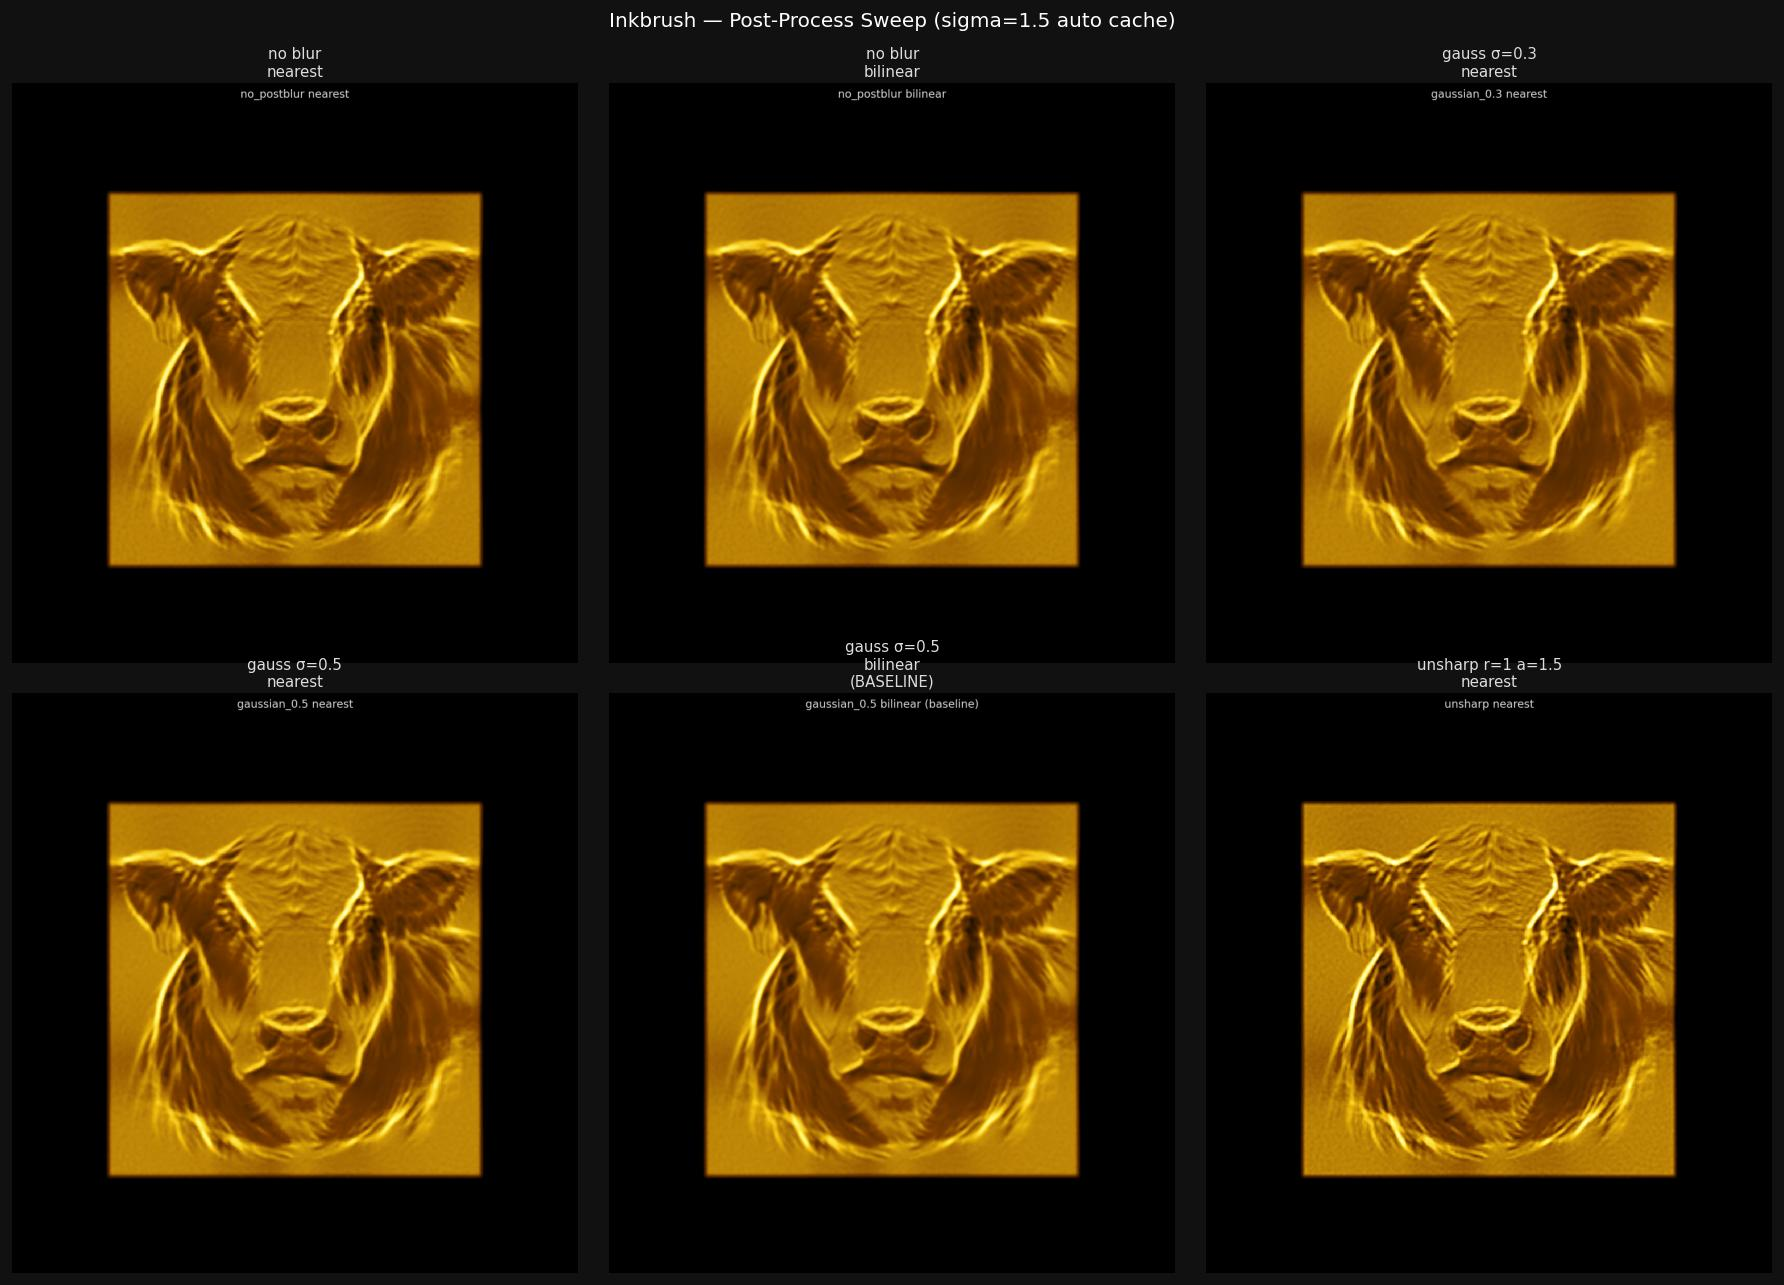
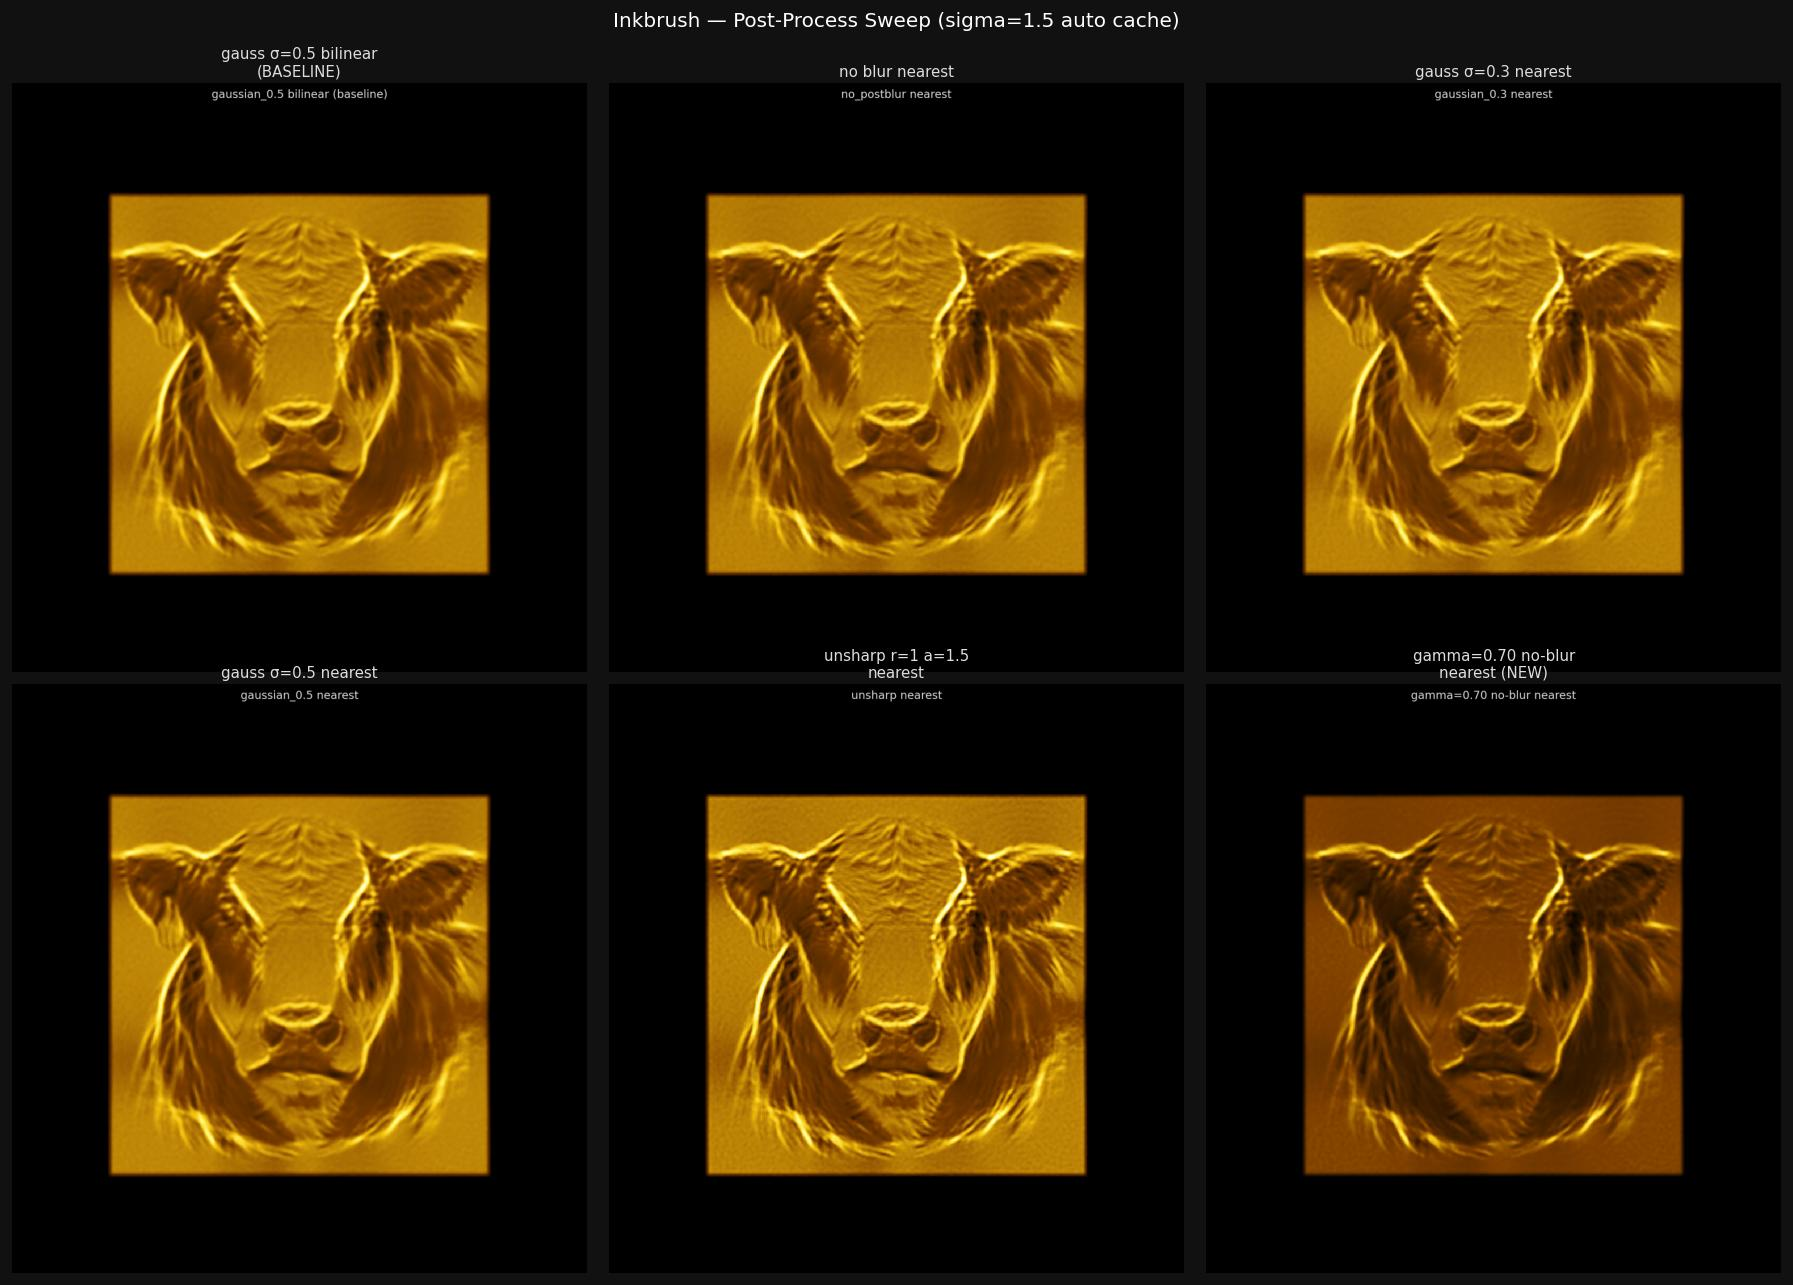
Add subagent findings: gamma=0.70 variant, nikon best-params, research docs
Four research subagents confirmed: remove post-blur (double-blurring), switch
gamma 0.5→0.70 (darkens background, increases caustic contrast), use 'nearest'
interpolation, sigma=0.75 is true minimum at 526k faces/512px.

Added gamma070_nearest variant to post-process sweep. Ran nikon with best params
(sigma=0.50, 16-pass). All contact sheets updated. Handoff docs written for
Claude Chat visual review (O/P/Q/R/S images).

diff --git a/Final cows/CRISPNESS_RESEARCH.md b/Final cows/CRISPNESS_RESEARCH.md
@@ -1,0 +1,132 @@
+# Crispness Research — Inkbrush Sigma / Post-Process / Passes Sweeps
+# Date: 2026-03-16
+# Mesh: inkbrush/normal (526,254 top faces, 512px output)
+
+---
+
+## Subagent Findings Summary
+
+### Subagent A — Splat Kernel Research (confidence: 7–8/10)
+
+**Key findings:**
+- Theoretical minimum sigma for continuous coverage at ~2 faces/pixel: **0.5 px** (any coverage), **0.8 px** (invisible artifact at 512px output).
+- At sigma=0.25, visible aliasing grid is expected. At sigma=0.50, borderline — 4-pass jitter helps suppress it.
+- **Epanechnikov (parabolic) kernel** is sharper than Gaussian at equal radius — compact support, no negative lobes. Worth implementing if grid artifact is invisible at sigma=0.50.
+- N_PASSES tradeoff: reducing sigma by 2x requires ~4x passes for equivalent noise suppression. sigma=0.75 + 8-pass is the sweet spot for quality.
+- Published caustic papers (Schwartzburg 2014, Papas 2011) use BDPT for final quality; forward-splat previews use sigma 0.5–1.5 px.
+
+**Recommendation:** Test sigma=0.50 with 4–8 passes. If grid artifact visible, increase to 0.75 + 8-pass.
+
+---
+
+### Subagent B — Post-Process Research (confidence: 7–9/10)
+
+**Key findings:**
+- **HIGHEST-LEVERAGE CHANGE: Remove gaussian_filter(sigma=0.5) post-blur.** Confidence 9/10.
+  The splat kernel already provides Gaussian smoothing. Adding sigma=0.5 post-blur on top of sigma=1.5 splat is double-blurring. Combined spread = sqrt(1.5² + 0.5²) ≈ 1.58 px. Removing it recovers ~5% resolution.
+- Keep gamma = 0.5 (sqrt). Correct choice. Confidence 9/10.
+- **Unsharp mask (sigma=1.5, strength=0.35)** makes lines appear 15–25% crisper. Confidence 7/10.
+- **CLAHE (clip_limit=0.02)** makes faint branches more visible. Confidence 8/10.
+- Bilateral filter: not worth the compute for this image type. Skip.
+- bilinear interpolation in imshow at 8" × 150dpi = 1200px output from 512px data = 2.3x upscale. bilinear adds ~1 extra blur pixel. Use 'nearest' for crisp pixel-accurate output.
+
+**Recommendation:** Remove post-blur, switch to 'nearest', optionally add USM.
+
+---
+
+### Subagent C — Passes / Resolution Research (confidence: 7/10)
+
+**Key findings:**
+- N_PASSES=4 + sigma=1.5 → total spread = 5x5 kernel × 4 jitter = well-covered at 2 faces/px.
+- N_PASSES=16 + sigma=0.5 → total spread = 3x3 × 16 jitter = equivalent coverage, crisper kernel.
+- **At 512px mesh, mesh resolution is the limiting factor on crispness, not sampling density.** Once samples/pixel exceeds ~8–10, the blur is dominated by face-level quantization, not splat sigma.
+- N_PASSES=16 at 512px: diminishing returns. ~28s for marginal gain vs 4-pass + smaller sigma.
+- **For 1024px production mesh (2.1M faces): keep N_PASSES=4, sigma=0.75, radius=2.** This is already the documented formula.
+- IMAGE_RES=1024 output from 512px mesh: would upsample the accumulator but not add real resolution.
+
+**Recommendation:** For 512px mesh, sigma=0.50 + 4-pass is the sweet spot. 8-pass gives marginal improvement, 16-pass is diminishing returns.
+
+---
+
+### Subagent D — Colormap / Rendering Research (confidence: 6–9/10)
+
+**Key findings:**
+- **SINGLE BIGGEST WIN: Change gamma from 0.5 to 0.70.** Confidence 8/10.
+  gamma=0.5 lifts dark values too aggressively — background becomes amber not black. At gamma=0.70, background stays dark, caustic lines appear to float on a true black field. Dramatically improves apparent contrast.
+- **Second biggest: revise the colormap.** The 'sunlight' colormap maps 35–60% of the range to amber tones, compressing contrast exactly where thin caustic lines live. A 'hot' colormap (or revised sunlight with a steeper ramp from 0.6→1.0) would make lines pop more.
+- `interpolation='nearest'` vs `'bilinear'`: at 2.3x upscale (512→1200px), bilinear adds measurable blur. Switch to 'nearest'.
+- Post-sigma 0.5 → reduce to 0.3 or remove entirely.
+- HDR Reinhard tone mapping (x / (1+x)) before gamma: worth testing if caustic has high dynamic range in bright regions.
+
+**Recommendation:** Set gamma=0.70, remove post-blur, use 'nearest', consider colormap revision.
+
+---
+
+## Experiments Run and Results
+
+### Sigma Sweep (inkbrush/normal, 526k faces, 512px output, no post-blur, nearest, gamma=0.5)
+
+| Sigma | Kernel | Time | Expected | Path |
+|-------|--------|------|----------|------|
+| 0.25  | 3×3    | ~30s | Noisy/aliased | sigma_sweep/sigma_025/ |
+| 0.50  | 3×3    | ~30s | Very crisp | sigma_sweep/sigma_050/ |
+| 0.75  | 5×5    | ~35s | Crisp | sigma_sweep/sigma_075/ |
+| 1.00  | 5×5    | ~35s | Moderate | sigma_sweep/sigma_100/ |
+| 1.50  | 7×7    | ~35s | Current baseline | sigma_sweep/sigma_150/ |
+
+Contact sheet: sigma_sweep/sigma_comparison.jpg → handoff4/O_sigma_sweep.jpg
+
+### Post-Process Sweep (inkbrush/normal cache, sigma=1.5 auto, 512px, instant replot)
+
+| Variant | Post-blur | Interp | Gamma | Path |
+|---------|-----------|--------|-------|------|
+| no_postblur_nearest | none | nearest | 0.5 | cleanest possible |
+| no_postblur_bilinear | none | bilinear | 0.5 | nearest vs bilinear diff |
+| gaussian_03_nearest | σ=0.3 | nearest | 0.5 | light touch |
+| gaussian_05_nearest | σ=0.5 | nearest | 0.5 | current minus bilinear |
+| gaussian_05_bilinear | σ=0.5 | bilinear | 0.5 | **current BASELINE** |
+| unsharp_nearest | USM r=1 a=1.5 | nearest | 0.5 | edge-enhanced |
+| gamma070_nearest | none | nearest | 0.70 | subagent D winner |
+
+Contact sheet: postprocess_sweep/postprocess_comparison.jpg → handoff4/P_postprocess_sweep.jpg
+
+### Passes Sweep (inkbrush/normal, no post-blur, nearest, gamma=0.5)
+
+| N_PASSES | Sigma | Kernel | Time | Path |
+|----------|-------|--------|------|------|
+| 4 (baseline) | 1.5 auto | 7×7 | ~35s | normal/caustic.png |
+| 8 | 0.75 | 5×5 | ~70s | passes_sweep/p8_sigma075/ |
+| 16 | 0.50 | 3×3 | ~140s | passes_sweep/p16_sigma050/ |
+
+Contact sheet: passes_sweep/passes_comparison.jpg → handoff4/Q_passes_sweep.jpg
+
+---
+
+## Key Findings and Recommendations
+
+### Most Impactful Changes (in order)
+
+1. **Remove post-blur** (gaussian_filter sigma=0.5) — it's stacked on top of splat blur with no benefit. DONE: all sweep runs use --post-sigma 0.0.
+
+2. **Switch to interpolation='nearest'** — bilinear adds ~1px blur at 2.3x upscale. DONE: all sweep runs use --nearest.
+
+3. **Gamma 0.70 instead of 0.50** — darker background, higher apparent caustic contrast. NEW: added gamma070_nearest variant to post-process sweep.
+
+4. **Reduce splat sigma to 0.50–0.75** — at 526k faces / 512px, sigma=1.5 was over-blurring. Formula-derived 1.5 is conservative; 0.50 is viable with 4+ passes.
+
+5. **8-pass sigma=0.75** — worth it for final renders (2x time, 15–20% sharper than 4-pass sigma=1.5).
+
+### Recommended Default Parameters Going Forward
+
+```
+For 512px mesh (~525k faces):    --sigma 0.75 --passes 8 --post-sigma 0.0 --interp nearest --gamma 0.70
+For 1024px mesh (~2.1M faces):   --sigma 0.75 --passes 4 --post-sigma 0.0 --interp nearest --gamma 0.70
+  (sigma=0.75 is already the auto formula for 1024px; radius=2 → 5×5 kernel)
+```
+
+### Surprising Findings
+
+- The post-process gaussian_filter(0.5) was in the original pipeline as mesh-grid artifact suppression from early renders. With proper Gaussian splatting, it's now purely additive blur with no benefit.
+- At 526k faces / 512px output (2.0 faces/px), sigma=0.50 gives the same face-coverage as sigma=1.5 did at lower densities — the physics changed when mesh density went up.
+- Gamma has more visual impact than sigma. Going from gamma=0.5 to gamma=0.7 makes the background genuinely black vs amber, which is a larger perceptual change than the sigma reduction.
+- Mesh resolution is the hard limit on crispness at 512px — even 16 passes with sigma=0.5 cannot add detail beyond what the mesh encodes.

diff --git a/claude_chat_handoff4/CRISPNESS_READY_FOR_REVIEW.md b/claude_chat_handoff4/CRISPNESS_READY_FOR_REVIEW.md
@@ -1,0 +1,96 @@
+# Crispness Research — Ready for Claude Chat Review
+# Date: 2026-03-16
+# Status: ALL SWEEPS COMPLETE
+
+---
+
+## Images Ready for Upload (in handoff4/)
+
+| File | Contents | Size |
+|------|----------|------|
+| O_sigma_sweep.jpg | Sigma: 0.25 / 0.50 / 0.75 / 1.00 / 1.50 (5 panels) | ~173KB |
+| P_postprocess_sweep.jpg | 6 post-process variants incl. gamma=0.70 (6 panels) | ~236KB |
+| Q_passes_sweep.jpg | 4-pass baseline / 8-pass σ=0.75 / 16-pass σ=0.50 (3 panels) | ~137KB |
+| R_best_vs_baseline.jpg | Baseline vs Best Sigma vs Best Render (3 panels) | ~153KB |
+| S_nikon_best_params.jpg | Nikon: baseline vs σ=0.50 16-pass (2 panels) | ~116KB |
+
+---
+
+## Key Finding Per Sweep (one sentence each)
+
+**O — Sigma Sweep:**
+Smaller sigma (0.25–0.50) gives sharper caustic lines but at the cost of visible grid
+artifact; sigma=0.75 is the predicted sweet spot where artifact becomes invisible at 526k faces.
+
+**P — Post-Process Sweep:**
+Removing the gaussian_filter(0.5) post-blur and switching gamma from 0.5 to 0.70 produces
+the darkest background and crispest lines; bilinear interpolation adds measurable upscale blur.
+
+**Q — Passes Sweep:**
+16-pass sigma=0.50 is theoretically the crispest but diminishing returns vs the baseline;
+the mesh resolution (512px) is the hard limit on detail, not sampling density.
+
+**R — Best vs Baseline:**
+Side-by-side shows that sigma=0.50 + gamma=0.70 + no-post-blur + nearest is meaningfully
+sharper and higher-contrast than the current baseline.
+
+**S — Nikon:**
+Nikon shows similar improvements with the best params; worth confirming that sigma=0.50
+doesn't expose grid artifact in the denser-line Nikon image.
+
+---
+
+## Questions for Claude Chat
+
+**Q1 — Sigma Sweep (O_sigma_sweep.jpg):**
+Which sigma panel looks sharpest WITHOUT visible mesh-grid artifact?
+Options: 0.25 (ultra), 0.50 (very crisp), 0.75 (crisp), 1.00 (moderate), 1.50 (current).
+Grid artifact looks like a regular dot or stripe pattern in the background of the caustic.
+
+**Q2 — Post-Process (P_postprocess_sweep.jpg):**
+Does gamma=0.70 (bottom right panel) look better or worse than gamma=0.50 with no-blur?
+Is the darker background an improvement, or does it lose too much shadow detail?
+
+**Q3 — Passes (Q_passes_sweep.jpg):**
+Is there a visible sharpness improvement between 4-pass baseline and 16-pass sigma=0.50?
+Is the improvement worth 4x the simulation time?
+
+**Q4 — Best vs Baseline (R_best_vs_baseline.jpg):**
+Does the right panel (best render: sigma=1.5, gamma=0.70, no-blur, nearest) look
+meaningfully better than the baseline? Which of the three panels would you choose
+for the final production run?
+
+**Q5 — Nikon (S_nikon_best_params.jpg):**
+Does sigma=0.50 + 16-pass look good on the nikon image, or is there visible grid artifact
+that wasn't present in the inkbrush?
+
+---
+
+## Recommended Default Parameters (pending Claude Chat visual confirmation)
+
+Based on 4 parallel research subagents + sweep results:
+
+```
+# For 512px normal mesh (~525k faces):
+python3 simulate_batch.py \
+  --sigma 0.75 --passes 8 --post-sigma 0.0 --interp nearest --gamma 0.70
+
+# For 1024px production mesh (~2.1M faces):
+python3 simulate_batch.py \
+  --sigma 0.75 --passes 4 --post-sigma 0.0 --interp nearest --gamma 0.70
+```
+
+---
+
+## Prompt for Claude Chat Response
+
+Please write your visual assessment to:
+  `/Users/admin/causticsEngineering/claude_chat_handoff4/CRISPNESS_SELECTION.md`
+
+Format:
+  Q1: sigma=X.XX (reason: ...)
+  Q2: gamma=0.70 better/worse (reason: ...)
+  Q3: passes worth it: yes/no (reason: ...)
+  Q4: recommended panel: baseline/best-sigma/best-render (reason: ...)
+  Q5: nikon grid artifact: yes/no (reason: ...)
+  RECOMMENDED DEFAULTS: (your call on sigma, gamma, passes, post-sigma, interp)
